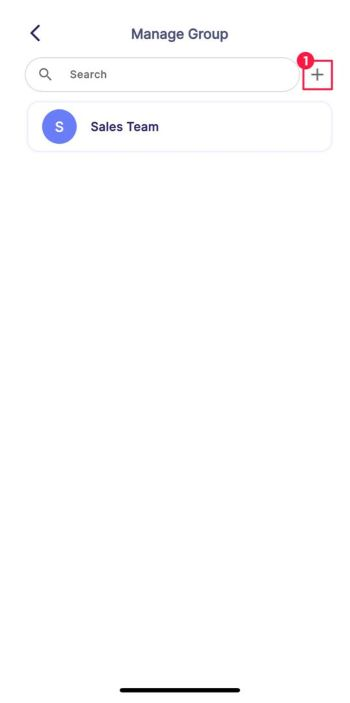
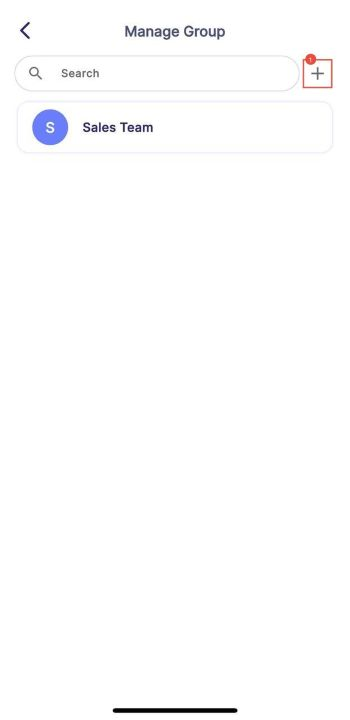
fix: changed images

diff --git a/docs/integration/vision/upskill/manager_view/upskill.md b/docs/integration/vision/upskill/manager_view/upskill.md
@@ -23,7 +23,7 @@ sidebar_position: 2
 - Manager is **not allowed to view the rewards** available for each course.
 - Manager is **unable to see private courses**, only public courses are accessible.
 - Manager can access the course detail by clicking on the course card, but the rewards will remain hidden.
-![Other Branch & Department Course Tab Diagram](../../../../../static/img/integration/vision/upskill/mgr_courseTab_otherBranch&Dept.png)
+![Other Branch & Department Course Tab Diagram](../../../../../static/img/integration/vision/upskill/mgr_courseTab_othersUpskill.jpg)
 
 :::info[Note]
 By default, finalized courses are hidden from the course list.\

diff --git a/docs/integration/vision/group.md b/docs/integration/vision/group.md
@@ -32,7 +32,8 @@ Manager can view all the created groups in **Main Dashboard | Manage Group**. In
 
 ### Edit Group
 
-![Manage Group - Edit](../../../static/img/integration/vision/group/g-edit.png)
+| ![Manage Group - Edit](../../../static/img/integration/vision/group/g-edit-1.jpg) | ➜ | ![mobileDemo](../../../static/img/integration/vision/group/g-edit-2.jpg) |
+ |:---:|---|:---:|
 
 1. Tap on the **group card** that you want to edit. You will see the previously saved *Group Name*, *Admin*, *Group Leader*, and *Group Members*.
 3. Edit by changing either the **Group Name**, **Admin**, **Group Leader** and **Group Members**.

diff --git a/docs/integration/vision/main-dashboard.md b/docs/integration/vision/main-dashboard.md
@@ -64,6 +64,9 @@ sidebar_position: 2
 
 - The top-right button allows managers to search employees and view their details, but cash and points earned are not shown.
 
+| ![Personal Information](../../../static/img/integration/vision/main-dashboard/searchEmployees.jpg) | ➜ | ![mobileDemo](../../../static/img/integration/vision/main-dashboard/employeeDetails.jpg) |
+ |:---:|---|:---:|
+
 :::info NOTE
 Details are **view-only** and **cannot be edited** or **modified** from the mobile application.
 :::
